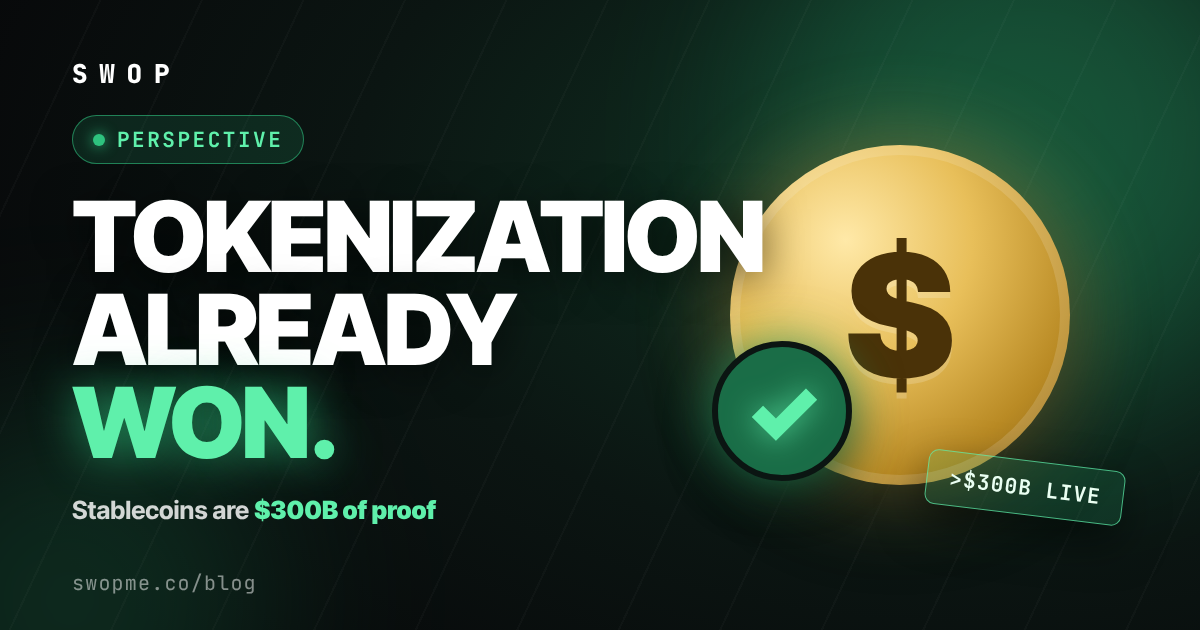
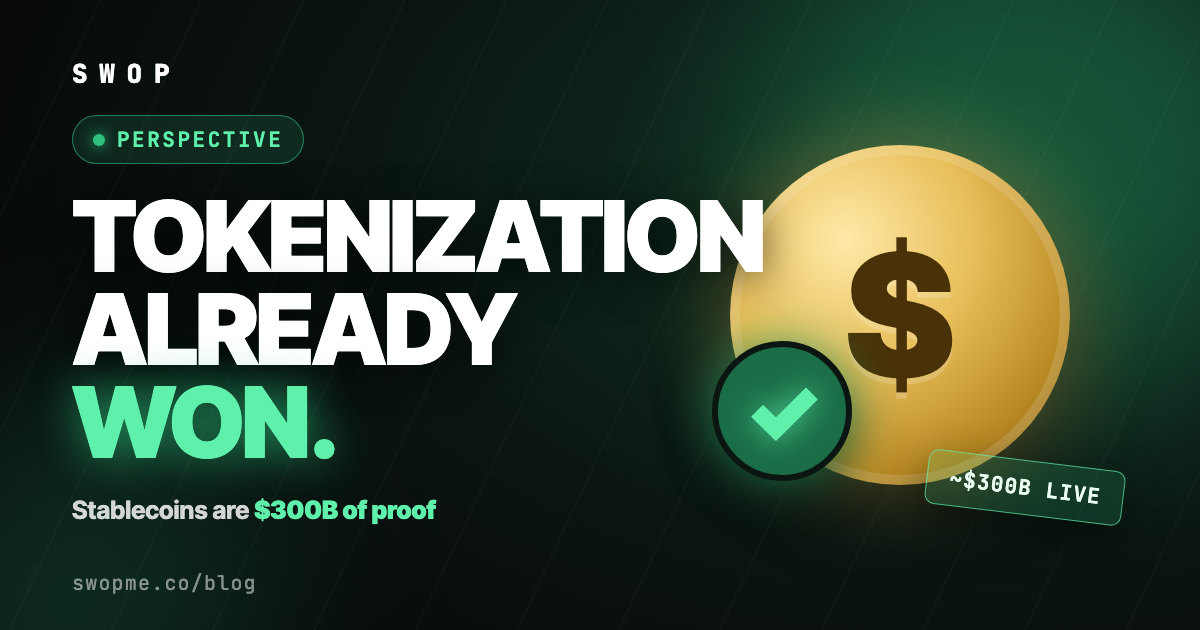
review(stablecoins): soften ">$300B" — stablecoins fell below $300B
The headline figure went stale between drafting and today. DefiLlama's
total crossed below $300B around 2026-11-01 and reads $297.7B today
(CoinGecko's stablecoin category: $291B). ">$300B in stablecoins" was
flagged as marginal on 11-02 at $300.8B; it is now simply false.

Softened to "roughly $300B" / "~$300B" everywhere the live claim appears:
page meta + Twitter card, Article JSON-LD, the answer-first lede, the
stat tile, the og banner sticker, and the X/Farcaster/LinkedIn/Facebook
copy in the distribution kit (including the URL-encoded composer links).

The thesis is untouched and still holds by a wide margin: ~$300B against
~$32-48B for every other tokenized RWA combined. The cited CoinDesk July
2026 figure ($308B) is a historical statement and stays as written. Added
a live DefiLlama tracker link so the present-tense number is sourced.

Banner re-rendered and viewed: on-spec, no clipping.

diff --git a/blog/stablecoins-already-won-tokenization/index.html b/blog/stablecoins-already-won-tokenization/index.html
@@ -4,7 +4,7 @@
 <meta charset="UTF-8">
 <meta name="viewport" content="width=device-width, initial-scale=1.0, viewport-fit=cover">
 <title>Stablecoins Are the Tokenization That Already Won</title>
-<meta name="description" content="Stablecoins already hold more on-chain value than every other tokenized real-world asset combined &mdash; over $300B against about $32&ndash;48B total.">
+<meta name="description" content="Stablecoins already hold more on-chain value than every other tokenized real-world asset combined &mdash; roughly $300B against about $32&ndash;48B total.">
 <link rel="canonical" href="https://www.swopme.co/blog/stablecoins-already-won-tokenization">
 <link rel="icon" href="/favicon.ico">
 <meta property="og:type" content="article">
@@ -22,13 +22,13 @@
 <meta name="twitter:image" content="https://www.swopme.co/blog/stablecoins-already-won-tokenization/og.png">
 <meta name="twitter:site" content="@swoplabs">
 <meta name="twitter:title" content="Stablecoins already won tokenization">
-<meta name="twitter:description" content="Over $300B in stablecoins vs. roughly $32&ndash;48B in every other tokenized real-world asset combined.">
+<meta name="twitter:description" content="Roughly $300B in stablecoins vs. roughly $32&ndash;48B in every other tokenized real-world asset combined.">
 <script type="application/ld+json">
 {
   "@context": "https://schema.org",
   "@type": "Article",
   "headline": "Stablecoins are the tokenization that already won",
-  "description": "Stablecoins already hold more on-chain value than every other tokenized real-world asset combined - over $300B against roughly $32-48B. Here's what that means.",
+  "description": "Stablecoins already hold more on-chain value than every other tokenized real-world asset combined - about $300B against roughly $32-48B. Here's what that means.",
   "datePublished": "2026-10-30",
   "dateModified": "2026-10-30",
   "author": {"@type": "Organization", "name": "Swop Team", "url": "https://www.swopme.co/blog/authors/swop-team"},
@@ -113,7 +113,7 @@
 <a href="#faq">FAQ</a>
 </aside>
 <article class="prose">
-<p>A stablecoin is tokenization: a token issued against a reserve of dollars or dollar-equivalent assets held off-chain, redeemable against that reserve, and transferable on a public blockchain. Judged by that definition, stablecoins are not a preview of real-world-asset tokenization &mdash; they are its largest result to date. More than $300 billion in stablecoins circulate on-chain today, against roughly $32&ndash;48 billion for every other tokenized real-world asset combined &mdash; Treasuries, gold, private credit, real estate. The asset everyone keeps describing as "about to be tokenized" already was, and it was cash.</p>
+<p>A stablecoin is tokenization: a token issued against a reserve of dollars or dollar-equivalent assets held off-chain, redeemable against that reserve, and transferable on a public blockchain. Judged by that definition, stablecoins are not a preview of real-world-asset tokenization &mdash; they are its largest result to date. Roughly $300 billion in stablecoins circulate on-chain today, against roughly $32&ndash;48 billion for every other tokenized real-world asset combined &mdash; Treasuries, gold, private credit, real estate. The asset everyone keeps describing as "about to be tokenized" already was, and it was cash.</p>
 <p>That gap matters for anyone trying to read where tokenization is actually headed, because the industry's own numbers keep answering a different question than the one usually asked.</p>
 
 <h2 id="s1">What counts as tokenization</h2>
@@ -121,9 +121,9 @@
 <p>None of that is a metaphor. It is the literal structure every tracker uses when it adds up "tokenized real-world assets," and under that structure, stablecoins are not kept in a separate bucket from Treasuries or gold &mdash; they are the biggest line item inside the same bucket.</p>
 
 <h2 id="s2">The numbers nobody states side by side</h2>
-<p>Figures differ by tracker and by week, because different trackers include different token sets and measure distributed value differently from represented value. But every major source lands in the same place: stablecoins are not comparable in size to the rest of tokenized real-world assets &mdash; they dwarf them.</p>
+<p>Figures differ by tracker and by week, because different trackers include different token sets and measure distributed value differently from represented value. But every major source &mdash; including <a href="https://defillama.com/stablecoins" target="_blank" rel="noopener">DefiLlama's live stablecoin tracker</a> &mdash; lands in the same place: stablecoins are not comparable in size to the rest of tokenized real-world assets &mdash; they dwarf them.</p>
 <div class="figures">
-<div><div class="n">&gt;$300B</div><div class="l">Stablecoins outstanding</div></div>
+<div><div class="n">~$300B</div><div class="l">Stablecoins outstanding</div></div>
 <div><div class="n">~$32&ndash;48B</div><div class="l">Every other tokenized RWA, combined</div></div>
 <div><div class="n">~86%</div><div class="l">Stablecoin share of on-chain tokenized value</div></div>
 </div>

diff --git a/blog/stablecoins-already-won-tokenization/og.html b/blog/stablecoins-already-won-tokenization/og.html
@@ -64,7 +64,7 @@
         <div class="dollar">$</div>
         <div class="badge"><div class="check">&#10003;</div></div>
       </div>
-      <div class="tag">&gt;$300B live</div>
+      <div class="tag">~$300B live</div>
     </div>
   </div>
   <div class="url">swopme.co/blog</div>

diff --git a/editorial/distribution/stablecoins-already-won-tokenization.md b/editorial/distribution/stablecoins-already-won-tokenization.md
@@ -4,33 +4,33 @@ Post: https://www.swopme.co/blog/stablecoins-already-won-tokenization
 
 ## The one caption (post this exact text everywhere — answer-first, no jargon, works standalone)
 
-> Stablecoins hold over $300B on-chain, more than every other tokenized real-world asset (Treasuries, gold, real estate) combined. Tokenization didn't arrive for those assets first. It already happened, for cash. #stablecoins #tokenization
+> Stablecoins hold roughly $300B on-chain, more than every other tokenized real-world asset (Treasuries, gold, real estate) combined. Tokenization didn't arrive for those assets first. It already happened, for cash. #stablecoins #tokenization
 
 (237 characters, 2 hashtags.)
 
 ## Staged per platform
 
 **X** — two steps: post the caption alone (external links get suppressed in the algorithm), then reply to your own post with the link.
-1. Caption only: https://x.com/intent/post?text=Stablecoins%20hold%20over%20%24300B%20on-chain%2C%20more%20than%20every%20other%20tokenized%20real-world%20asset%20%28Treasuries%2C%20gold%2C%20real%20estate%29%20combined.%20Tokenization%20didn%27t%20arrive%20for%20those%20assets%20first.%20It%20already%20happened%2C%20for%20cash.%20%23stablecoins%20%23tokenization
+1. Caption only: https://x.com/intent/post?text=Stablecoins%20hold%20roughly%20%24300B%20on-chain%2C%20more%20than%20every%20other%20tokenized%20real-world%20asset%20%28Treasuries%2C%20gold%2C%20real%20estate%29%20combined.%20Tokenization%20didn%27t%20arrive%20for%20those%20assets%20first.%20It%20already%20happened%2C%20for%20cash.%20%23stablecoins%20%23tokenization
 2. First reply (link): https://x.com/intent/post?text=Full%20piece%3A&url=https%3A%2F%2Fwww.swopme.co%2Fblog%2Fstablecoins-already-won-tokenization
 
 **Farcaster** (post URL included — embed renders a preview card):
-https://farcaster.xyz/~/compose?text=Stablecoins%20hold%20over%20%24300B%20on-chain%2C%20more%20than%20every%20other%20tokenized%20real-world%20asset%20%28Treasuries%2C%20gold%2C%20real%20estate%29%20combined.%20Tokenization%20didn%27t%20arrive%20for%20those%20assets%20first.%20It%20already%20happened%2C%20for%20cash.%20%23stablecoins%20%23tokenization&embeds[]=https%3A%2F%2Fwww.swopme.co%2Fblog%2Fstablecoins-already-won-tokenization
+https://farcaster.xyz/~/compose?text=Stablecoins%20hold%20roughly%20%24300B%20on-chain%2C%20more%20than%20every%20other%20tokenized%20real-world%20asset%20%28Treasuries%2C%20gold%2C%20real%20estate%29%20combined.%20Tokenization%20didn%27t%20arrive%20for%20those%20assets%20first.%20It%20already%20happened%2C%20for%20cash.%20%23stablecoins%20%23tokenization&embeds[]=https%3A%2F%2Fwww.swopme.co%2Fblog%2Fstablecoins-already-won-tokenization
 
 **LinkedIn** (caption + link):
-https://www.linkedin.com/feed/?shareActive=true&text=Stablecoins%20hold%20over%20%24300B%20on-chain%2C%20more%20than%20every%20other%20tokenized%20real-world%20asset%20%28Treasuries%2C%20gold%2C%20real%20estate%29%20combined.%20Tokenization%20didn%27t%20arrive%20for%20those%20assets%20first.%20It%20already%20happened%2C%20for%20cash.%20%23stablecoins%20%23tokenization%20https%3A%2F%2Fwww.swopme.co%2Fblog%2Fstablecoins-already-won-tokenization
+https://www.linkedin.com/feed/?shareActive=true&text=Stablecoins%20hold%20roughly%20%24300B%20on-chain%2C%20more%20than%20every%20other%20tokenized%20real-world%20asset%20%28Treasuries%2C%20gold%2C%20real%20estate%29%20combined.%20Tokenization%20didn%27t%20arrive%20for%20those%20assets%20first.%20It%20already%20happened%2C%20for%20cash.%20%23stablecoins%20%23tokenization%20https%3A%2F%2Fwww.swopme.co%2Fblog%2Fstablecoins-already-won-tokenization
 
 (If following the PLAYBOOK §8 LinkedIn step for a banner preview card instead of a bare shortened link, use `--link https://www.swopme.co/blog/stablecoins-already-won-tokenization --link-title "Stablecoins are the tokenization that already won" --link-thumb blog/stablecoins-already-won-tokenization/og.png` with `editorial/social/post.js`, per PLAYBOOK. Remember the LinkedIn register note: this posts as Travis's personal profile, not a company Page — no thread, no hook-bait, plain professional voice.)
 
 **Facebook**:
-https://www.facebook.com/sharer/sharer.php?u=https%3A%2F%2Fwww.swopme.co%2Fblog%2Fstablecoins-already-won-tokenization&quote=Stablecoins%20hold%20over%20%24300B%20on-chain%2C%20more%20than%20every%20other%20tokenized%20real-world%20asset%20%28Treasuries%2C%20gold%2C%20real%20estate%29%20combined.%20Tokenization%20didn%27t%20arrive%20for%20those%20assets%20first.%20It%20already%20happened%2C%20for%20cash.%20%23stablecoins%20%23tokenization
+https://www.facebook.com/sharer/sharer.php?u=https%3A%2F%2Fwww.swopme.co%2Fblog%2Fstablecoins-already-won-tokenization&quote=Stablecoins%20hold%20roughly%20%24300B%20on-chain%2C%20more%20than%20every%20other%20tokenized%20real-world%20asset%20%28Treasuries%2C%20gold%2C%20real%20estate%29%20combined.%20Tokenization%20didn%27t%20arrive%20for%20those%20assets%20first.%20It%20already%20happened%2C%20for%20cash.%20%23stablecoins%20%23tokenization
 
 **Instagram** — no link-sharing API staged here (paste manually):
 Post the caption above as the image description, swap the hashtag line for "Link in bio," and use `blog/stablecoins-already-won-tokenization/og.png` as the image.
 
 ## Discord / Telegram recap (2 sentences)
 
-Stablecoins already hold more real-world value on-chain than every other tokenized asset combined — over $300B vs. roughly $32–48B for tokenized Treasuries, gold, and real estate put together. New on the Journal: why stablecoins won the tokenization race first, what "winning" doesn't mean (you still hold an issuer's claim, not the dollar itself), and where the next wave is headed → https://www.swopme.co/blog/stablecoins-already-won-tokenization
+Stablecoins already hold more real-world value on-chain than every other tokenized asset combined — roughly $300B vs. roughly $32–48B for tokenized Treasuries, gold, and real estate put together. New on the Journal: why stablecoins won the tokenization race first, what "winning" doesn't mean (you still hold an issuer's claim, not the dollar itself), and where the next wave is headed → https://www.swopme.co/blog/stablecoins-already-won-tokenization
 
 ---
 A human posts these — nothing here has been published externally.
